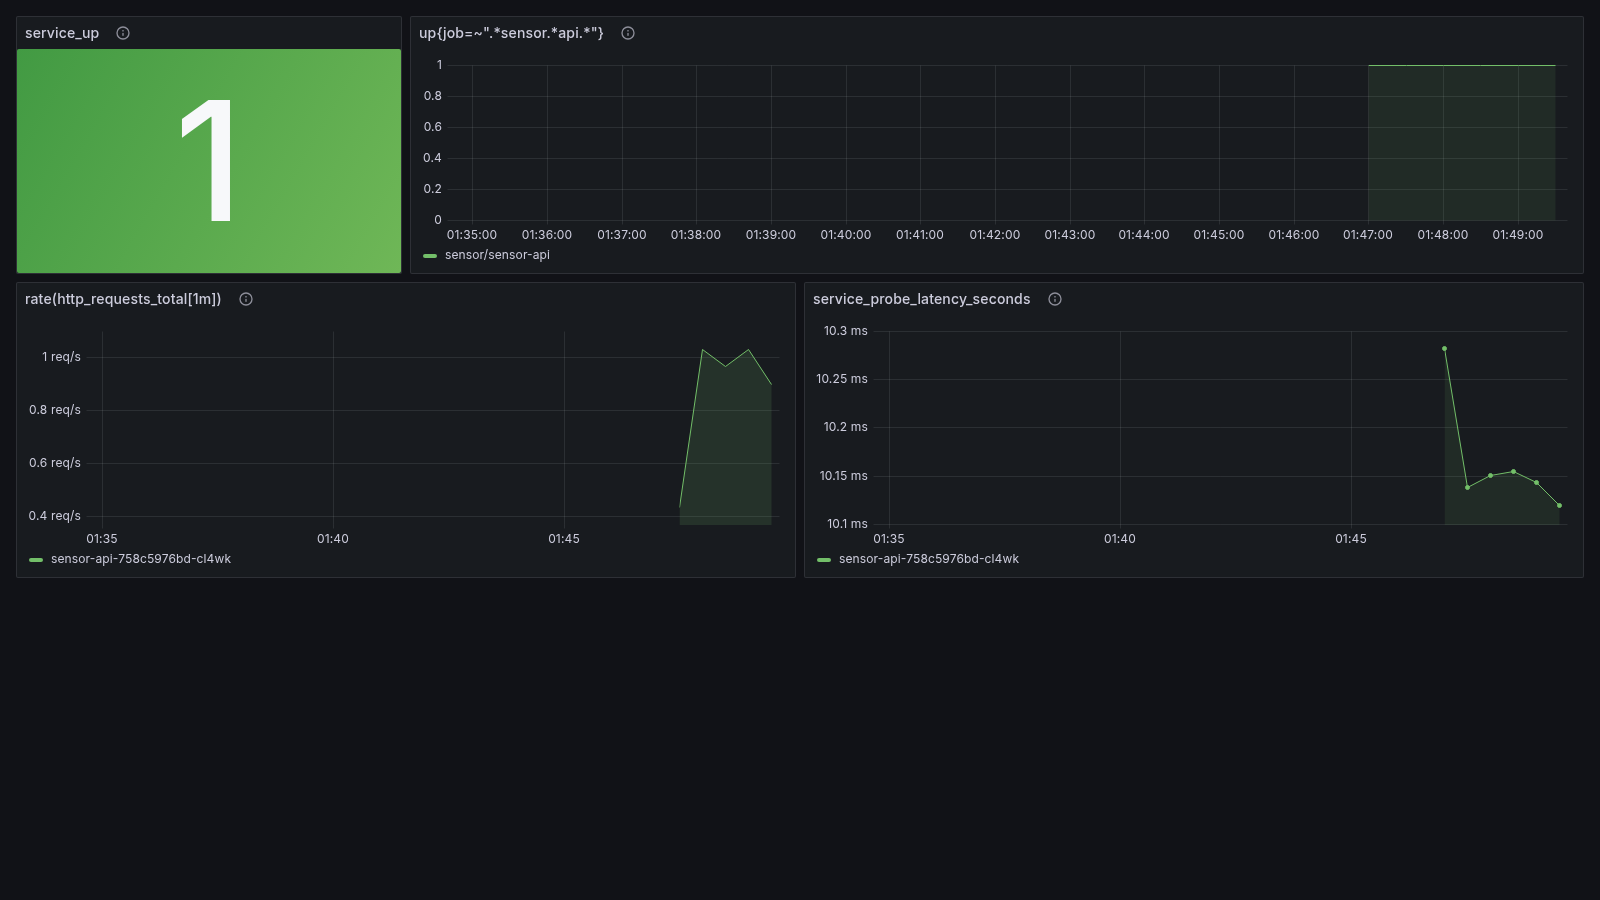
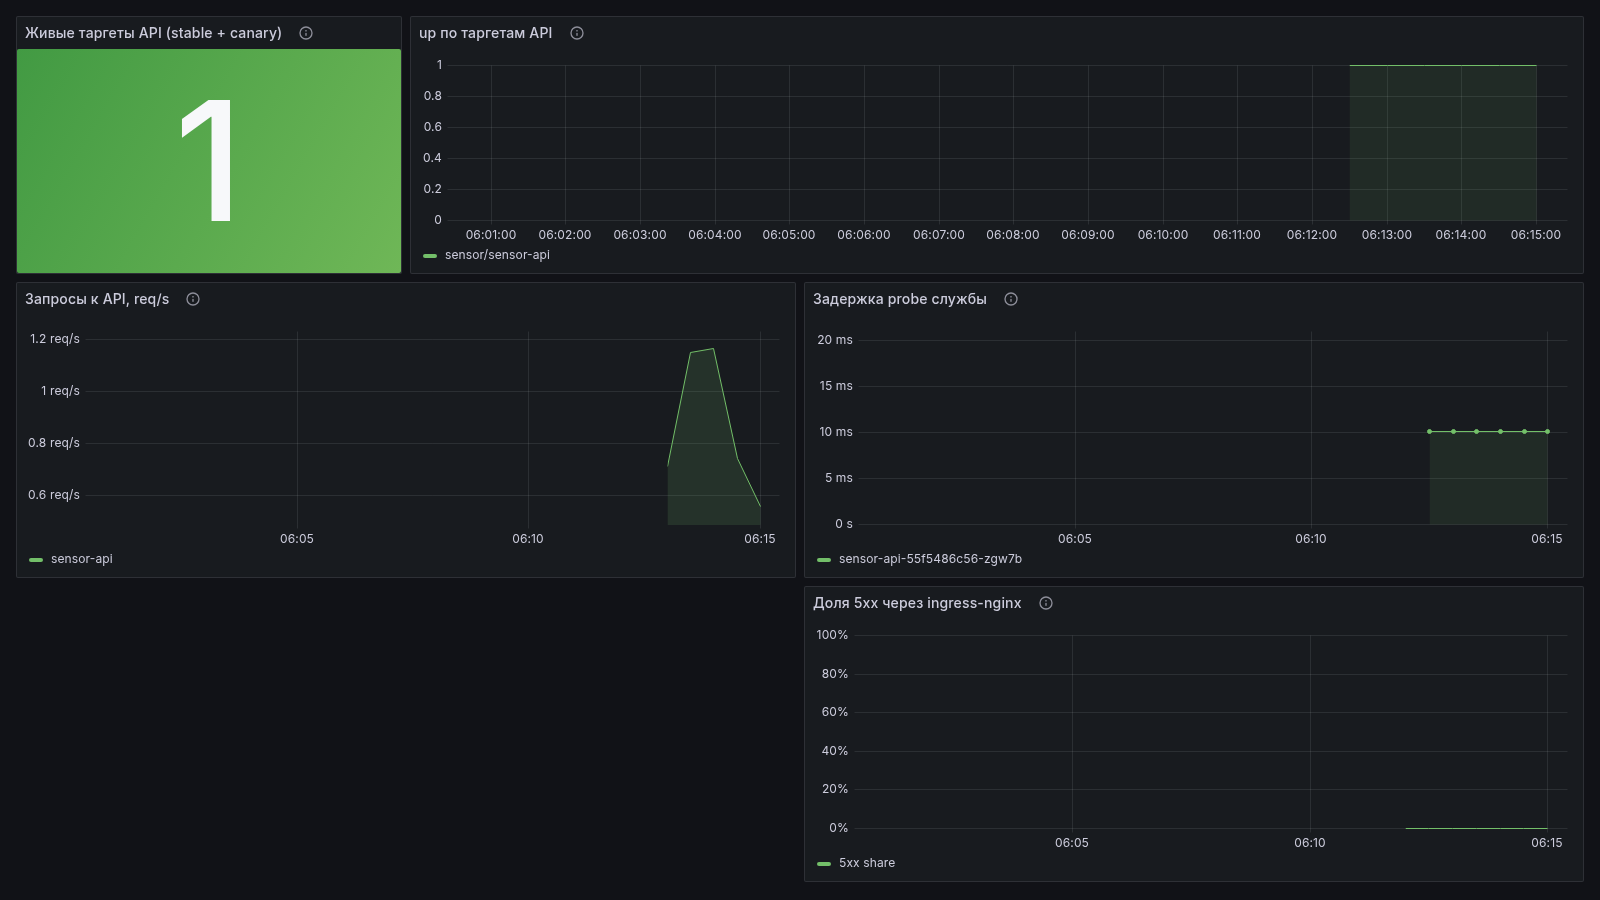
Grafana screenshot from the current dashboard (fresh-clone k3d), dashboard 5xx axis 0..1, screenshot script reads password from Secret; README/k8s-up-log: fresh clone results

diff --git a/scripts/grafana-screenshot.py b/scripts/grafana-screenshot.py
@@ -2,8 +2,11 @@
 
 python scripts/grafana-screenshot.py [URL] [OUT]
 URL по умолчанию http://127.0.0.1:3000 (kubectl -n monitoring port-forward svc/mon-grafana 3000:80).
+Пароль: GRAFANA_PASSWORD или Secret grafana-admin (kubectl).
 """
+import base64
 import os
+import subprocess
 import sys
 
 from playwright.sync_api import sync_playwright
@@ -11,7 +14,9 @@ from playwright.sync_api import sync_playwright
 url = sys.argv[1] if len(sys.argv) > 1 else "http://127.0.0.1:3000"
 out = sys.argv[2] if len(sys.argv) > 2 else "docs/img/grafana-sensor-gateway.png"
 user = os.environ.get("GRAFANA_USER", "admin")
-password = os.environ.get("GRAFANA_PASSWORD", "admin")
+password = os.environ.get("GRAFANA_PASSWORD") or base64.b64decode(subprocess.run(
+    ["kubectl", "-n", "monitoring", "get", "secret", "grafana-admin", "-o", "jsonpath={.data.admin-password}"],
+    capture_output=True, text=True, check=True).stdout).decode()
 
 with sync_playwright() as p:
     browser = p.chromium.launch(channel=os.environ.get("PW_CHANNEL", "chrome"), headless=True)

diff --git a/docs/k8s-up-log.md b/docs/k8s-up-log.md
@@ -59,3 +59,17 @@ MAKE_EXIT 0
 `PASS deploy sensor 2a83762`, `real 2m37s`, Grafana через ingress — 200. На том же стенде:
 `scripts/canary-fail-demo.sh` → `ROLLBACK canary: smoke failed at weight 10`, stable отвечает;
 `scripts/rollback-demo.sh` → `UPGRADE FAILED … rolled back due to atomic`, `helm history`: `Rollback to 1`.
+
+## Свежий клон, 2026-10-17 06:07–06:13 MSK (box, k3d)
+
+k3d-кластер `mts` перед прогоном удалён (`k3d cluster delete mts`). Затем `git clone https://github.com/Spar2/mts-devops-case.git /tmp/fresh2 && cd /tmp/fresh2 && make up` на коммите e0fe907.
+Переменные песочницы (на обычной Ubuntu не нужны): `K3D_EXTRA_ARGS` (flannel host-gw), `INGRESS_SERVICE_TYPE=NodePort`, `K3D_PRELOAD=1`, `INGRESS_PORT=18081` (port-forward), `K3D_LB_PORT=8081`.
+
+```text
+PASS deploy sensor e0fe907
+Приложение: http://sensor.localtest.me:18081  логин demo, пароль: <печатает make status>
+Grafana:    http://grafana.localtest.me:18081  логин admin, пароль (дашборд sensor-gateway): <печатает make status>
+real	1m59.912s
+```
+
+Повторный `make k8s-up K3D=1` в том же клоне: `PASS deploy sensor e0fe907`, `real 1m10.993s` (идемпотентно).
